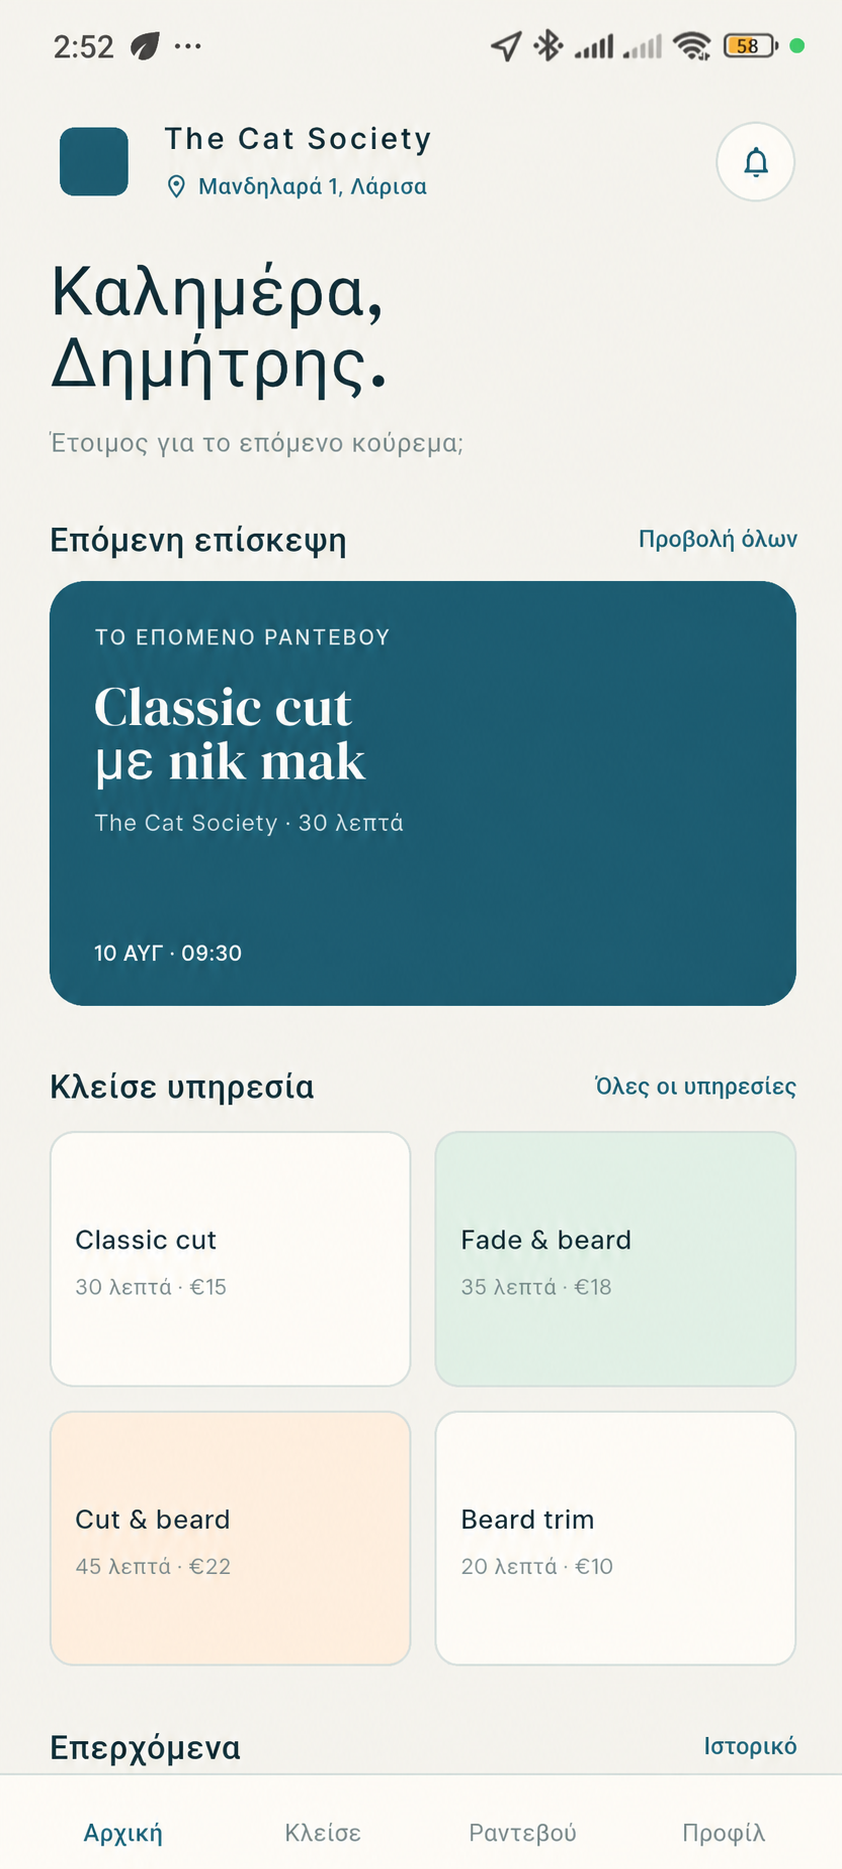
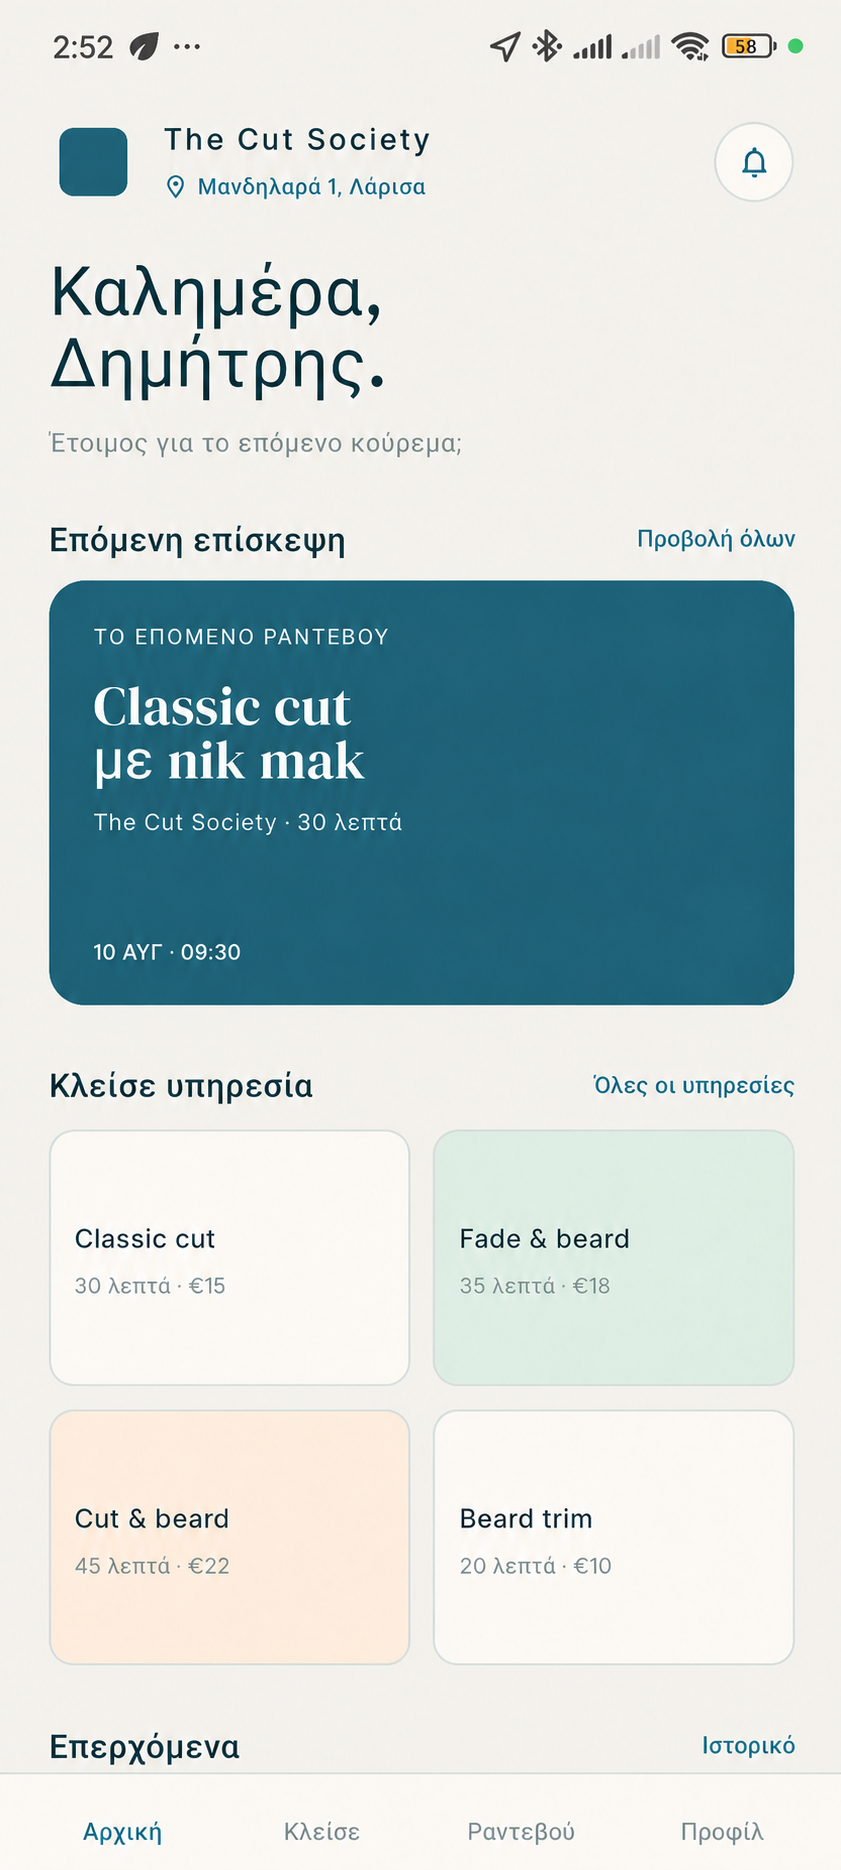
Finalize Cut Society website presentation

diff --git a/index.html b/index.html
@@ -47,11 +47,11 @@
         <div class="visual-label">A private digital home for your barber shop</div>
         <div class="phone-pair">
           <figure class="phone-shot customer-shot">
-            <img src="./barberin-customer-home.png" alt="Το The Cat Society Customer App με επόμενο ραντεβού και ενεργές υπηρεσίες">
+            <img src="./barberin-customer-home.png" alt="Το The Cut Society Customer App με επόμενο ραντεβού και ενεργές υπηρεσίες">
             <figcaption><strong>Customer App</strong><span>home και κράτηση</span></figcaption>
           </figure>
           <figure class="phone-shot owner-shot">
-            <img src="./barberin-owner-overview-demo.png" alt="Η light οθόνη Overview του Barberin για το The Cat Society με γεμάτα metrics και ραντεβού">
+            <img src="./barberin-owner-overview-demo.png" alt="Η light οθόνη Overview του Barberin για το The Cut Society με γεμάτα metrics και ραντεβού">
             <figcaption><strong>Barberin</strong><span>overview και έλεγχος</span></figcaption>
           </figure>
         </div>
@@ -214,10 +214,13 @@
         <p class="eyebrow">SIMPLE, SERIOUS, CLEAR</p>
         <h2>Μία επένδυση στη δική σου σχέση με τον πελάτη.</h2>
       </div>
-      <div class="pricing-line">
+      <div class="pricing-line subscription-plans">
         <div class="pricing-plan"><div class="pricing-plan-name">Μηνιαίο</div><div class="pricing-plan-type">Συνδρομή</div><strong>29,99€<small>/μήνα</small></strong><div class="pricing-benefit">1ος μήνας δωρεάν trial</div></div>
         <div class="pricing-plan"><div class="pricing-plan-name">Ετήσιο</div><div class="pricing-plan-type">Συνδρομή</div><strong>299,99€<small>/έτος</small></strong></div>
-        <div class="pricing-plan"><div class="pricing-plan-name">Setup</div><div class="pricing-plan-type">&amp; branding</div><strong><span class="pricing-original">399€</span><span class="pricing-offer">Δωρεάν</span><small class="pricing-offer-date">έως 31/12/2026</small></strong></div>
+      </div>
+      <div class="setup-offer">
+        <div><div class="pricing-plan-name">Setup</div><div class="pricing-plan-type">&amp; branding</div></div>
+        <strong><span class="pricing-original">399€</span><span class="pricing-offer">Δωρεάν</span><small class="pricing-offer-date">έως 31/12/2026</small></strong>
       </div>
     </section>
 

diff --git a/styles.css b/styles.css
@@ -149,6 +149,7 @@ h1 { max-width:650px; margin:0; font-size:clamp(42px,4.3vw,63px); letter-spacing
 .gallery-grid figcaption { margin-top:12px; color:var(--muted); font-size:10px; line-height:1.4; }
 .pricing-section { border-top:1px solid var(--line); }
 .pricing-line { display:grid; grid-template-columns:repeat(3,1fr); border-top:1px solid var(--ink); border-bottom:1px solid var(--ink); }
+.subscription-plans { grid-template-columns:repeat(2,minmax(0,1fr)); }
 .pricing-line > div { padding:29px 24px 31px 0; border-right:1px solid var(--line); }
 .pricing-line > div:not(:first-child) { padding-left:24px; }
 .pricing-line > div:last-child { border-right:0; }
@@ -156,6 +157,8 @@ h1 { max-width:650px; margin:0; font-size:clamp(42px,4.3vw,63px); letter-spacing
 .pricing-plan-type { margin-top:4px; color:var(--muted); font-size:11px; font-weight:500; letter-spacing:.7px; text-transform:uppercase; }
 .pricing-line strong { display:block; margin-top:17px; font:600 28px "Roboto",sans-serif; letter-spacing:-1px; }
 .pricing-line small { display:block; margin-top:6px; color:var(--muted); font:400 11px "Roboto",sans-serif; letter-spacing:0; }
+.setup-offer { display:flex; align-items:flex-end; justify-content:space-between; gap:24px; margin-top:22px; padding:27px 0 30px; border-top:1px solid var(--ink); border-bottom:1px solid var(--ink); }
+.setup-offer strong { display:block; margin:0; font:600 28px "Roboto",sans-serif; letter-spacing:-1px; }
 .pricing-original { display:block; color:var(--ink); font-size:28px; line-height:1; font-weight:600; text-decoration:line-through; text-decoration-thickness:2px; letter-spacing:-1px; }
 .pricing-offer { display:block; margin-top:3px; }
 .pricing-benefit { margin-top:12px; color:var(--ink); font-size:12px; font-weight:600; }
@@ -247,6 +250,7 @@ details p { max-width:720px; margin:-5px 0 21px; color:var(--muted); font-size:1
   .pricing-line { grid-template-columns:1fr; }
   .pricing-line > div, .pricing-line > div:not(:first-child) { padding:22px 0; border-right:0; border-bottom:1px solid var(--line); }
   .pricing-line > div:last-child { border-bottom:0; }
+  .setup-offer { align-items:flex-start; flex-direction:column; gap:16px; }
   .contact-section { grid-template-columns:1fr; gap:42px; margin-bottom:30px; padding:48px 0; }
   .contact-section h2 { font-size:35px; }
   .form-grid { grid-template-columns:1fr; gap:18px; }
